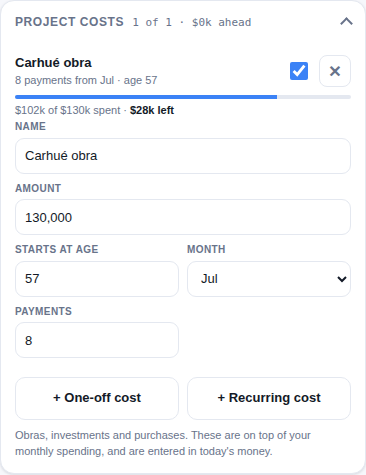
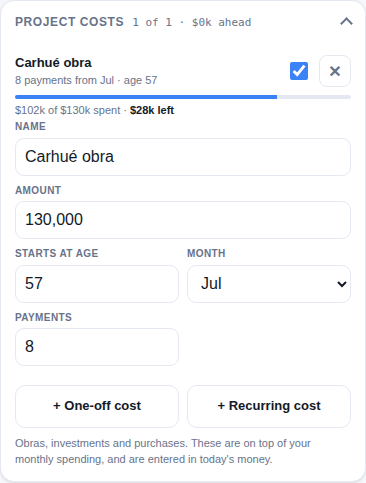
Stop iOS zooming when a field is tapped
iOS Safari zooms the page whenever a focused field has a font smaller than
16px, and it does not zoom back out on blur. Every text input and select here
was 13px, so tapping any of them left the app zoomed in.

They are now 16px, with the field height nudged 36 -> 38 so the larger text is
not cramped. Interactive elements also get touch-action:manipulation, which
removes the double-tap-to-zoom gesture and its 300ms click delay. Range inputs
keep pan-y, so scrolling past a slider still scrolls rather than dragging it.

Guarded by a test that walks every focusable field and fails on anything under
16px, so this cannot creep back in.

Claude-Session: https://claude.ai/code/session_01WhJcZ9Se9VHsj4TqAnspTi

diff --git a/mobile.html b/mobile.html
@@ -26,6 +26,8 @@
            --shadow:0 1px 3px rgba(0,0,0,.4); }
   }
   *{box-sizing:border-box;-webkit-tap-highlight-color:transparent}
+  /* kills the double-tap-to-zoom gesture (and its 300ms delay) on things you tap */
+  button,summary,label,input,select,.ledhead,.stp button{touch-action:manipulation}
   body{margin:0;background:var(--bg);color:var(--ink);
     font:15px/1.45 -apple-system,BlinkMacSystemFont,"SF Pro Text",Segoe UI,Roboto,sans-serif;
     padding:max(12px,env(safe-area-inset-top)) 12px calc(24px + env(safe-area-inset-bottom));
@@ -88,7 +90,7 @@
     border-radius:9px;padding:0 8px;height:34px;background:transparent}
   .px span{font-size:12px;color:var(--dim);flex-shrink:0}
   .px input{flex:1;min-width:0;width:100%;border:0;background:transparent;color:var(--ink);
-    font:inherit;font-size:13px;font-weight:700;padding:0;
+    font:inherit;font-size:16px;font-weight:700;padding:0;
     font-family:ui-monospace,"SF Mono",Menlo,monospace;font-variant-numeric:tabular-nums}
   .px input:focus{outline:none}
   .px.set{border-color:var(--liq)}
@@ -133,8 +135,10 @@
   .fg{display:grid;grid-template-columns:1fr 1fr;gap:8px}
   .fg .wide{grid-column:1 / -1}
   .fg label{display:block;min-width:0}
-  .fg input,.fg select{border:1px solid var(--line);border-radius:9px;padding:0 9px;height:36px;
-    background:transparent;color:var(--ink);font:inherit;font-size:13px;width:100%}
+  /* ⚠ 16px is not cosmetic: iOS Safari zooms the page whenever a focused field is
+     smaller, and the zoom does not come back on blur. Never drop these below 16px. */
+  .fg input,.fg select{border:1px solid var(--line);border-radius:9px;padding:0 9px;height:38px;
+    background:transparent;color:var(--ink);font:inherit;font-size:16px;width:100%}
   .fg input:focus,.fg select:focus{outline:2px solid var(--liq);outline-offset:-1px}
   .ex{padding:9px 0;border-top:1px solid var(--line)}
   .ex:first-of-type{border-top:none}
@@ -190,7 +194,7 @@
   .sync.bad{color:var(--bad);border-color:var(--bad)}
   .sync.busy{opacity:.6}
   .scenbar{display:flex;gap:8px;align-items:center;margin-bottom:10px}
-  .scenbar select{flex:1;min-width:0;font:inherit;font-size:13px;padding:8px 10px;
+  .scenbar select{flex:1;min-width:0;font:inherit;font-size:16px;padding:8px 10px;
     border:1px solid var(--line);border-radius:10px;background:var(--card);color:var(--ink)}
 </style>
 </head>
